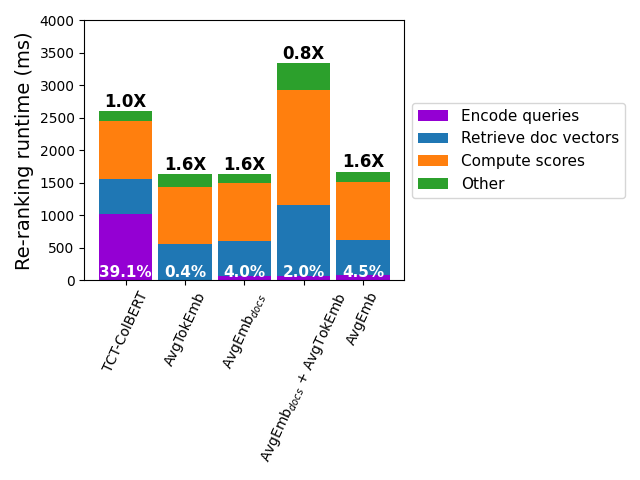
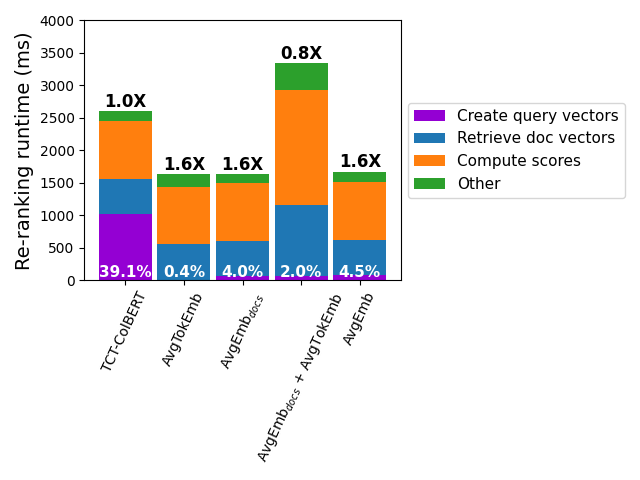
Improve reranking dist plot

diff --git a/plot_data/reranking_runtimes_distribution.py b/plot_data/reranking_runtimes_distribution.py
@@ -39,7 +39,7 @@ def plot_runtimes(profiles: List[Dict[str, Any]]):
 
     bar_width = 0.9
     bars = [
-        ax.bar(names, encode_queries, color="darkviolet", label="Encode queries", width=bar_width),
+        ax.bar(names, encode_queries, color="darkviolet", label="Create query vectors", width=bar_width),
         ax.bar(names, get_vectors, bottom=encode_queries, label="Retrieve doc vectors", width=bar_width),
         ax.bar(names, compute_scores, bottom=encode_queries + get_vectors, label="Compute scores", width=bar_width),
         ax.bar(names, other, bottom=encode_queries + get_vectors + compute_scores, label="Other", width=bar_width),
